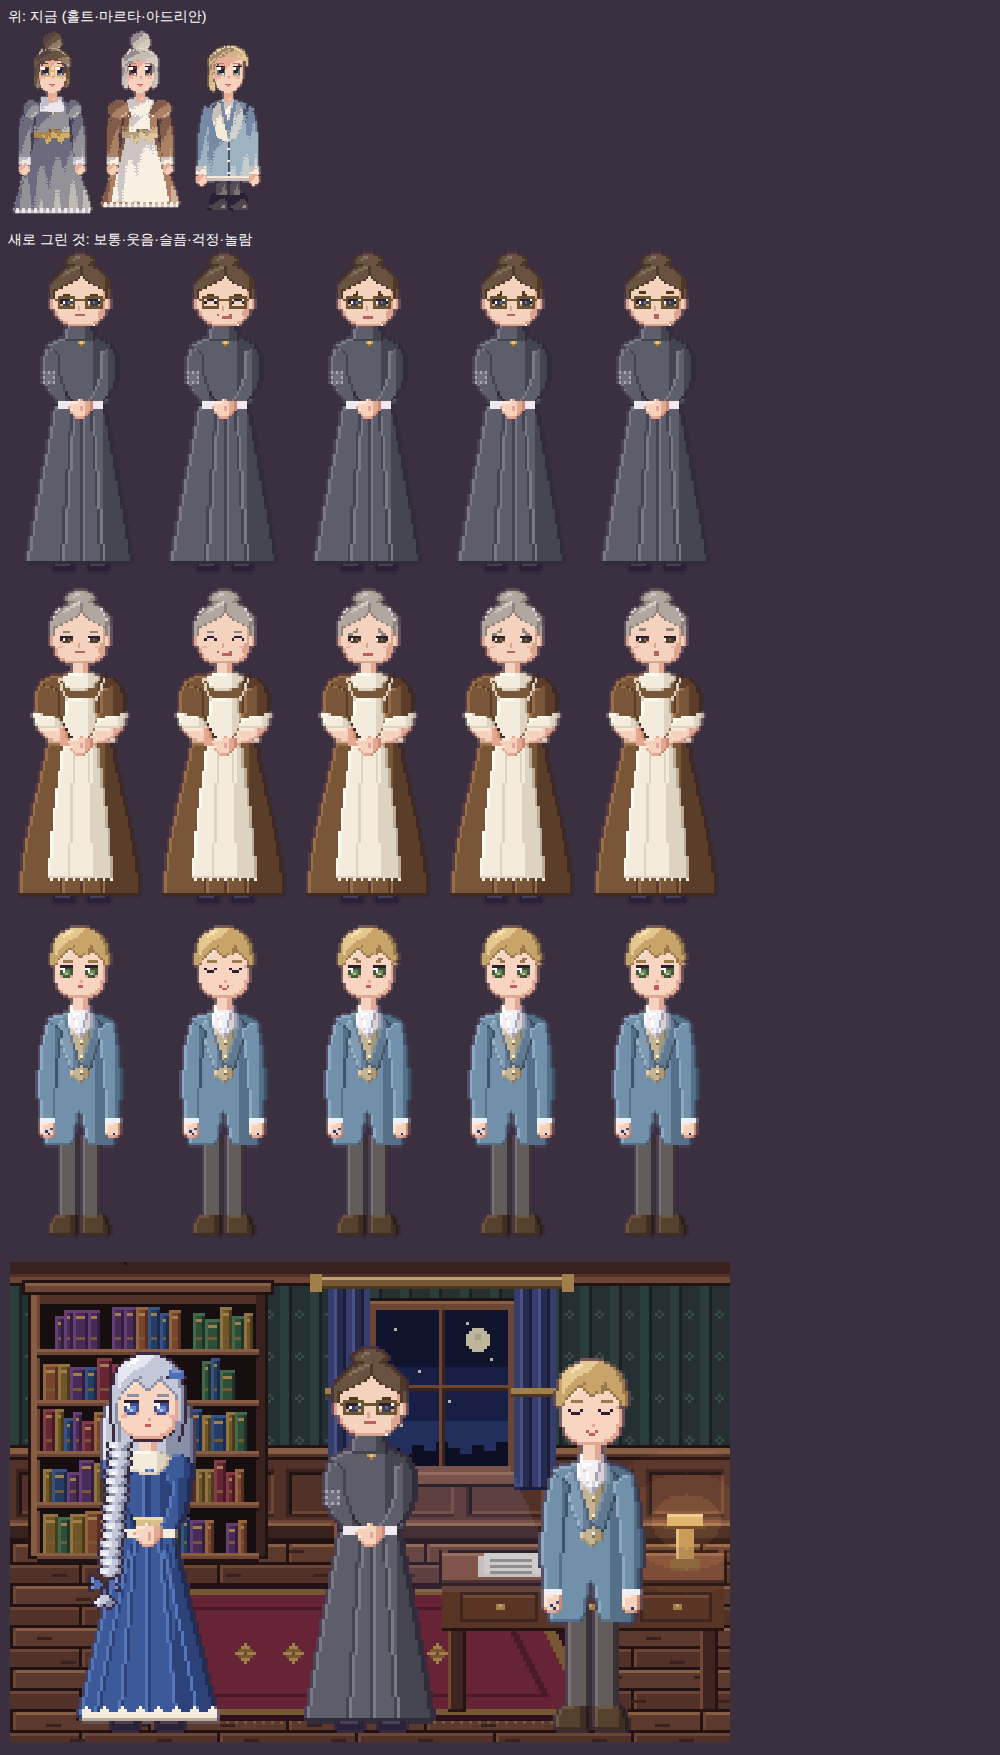
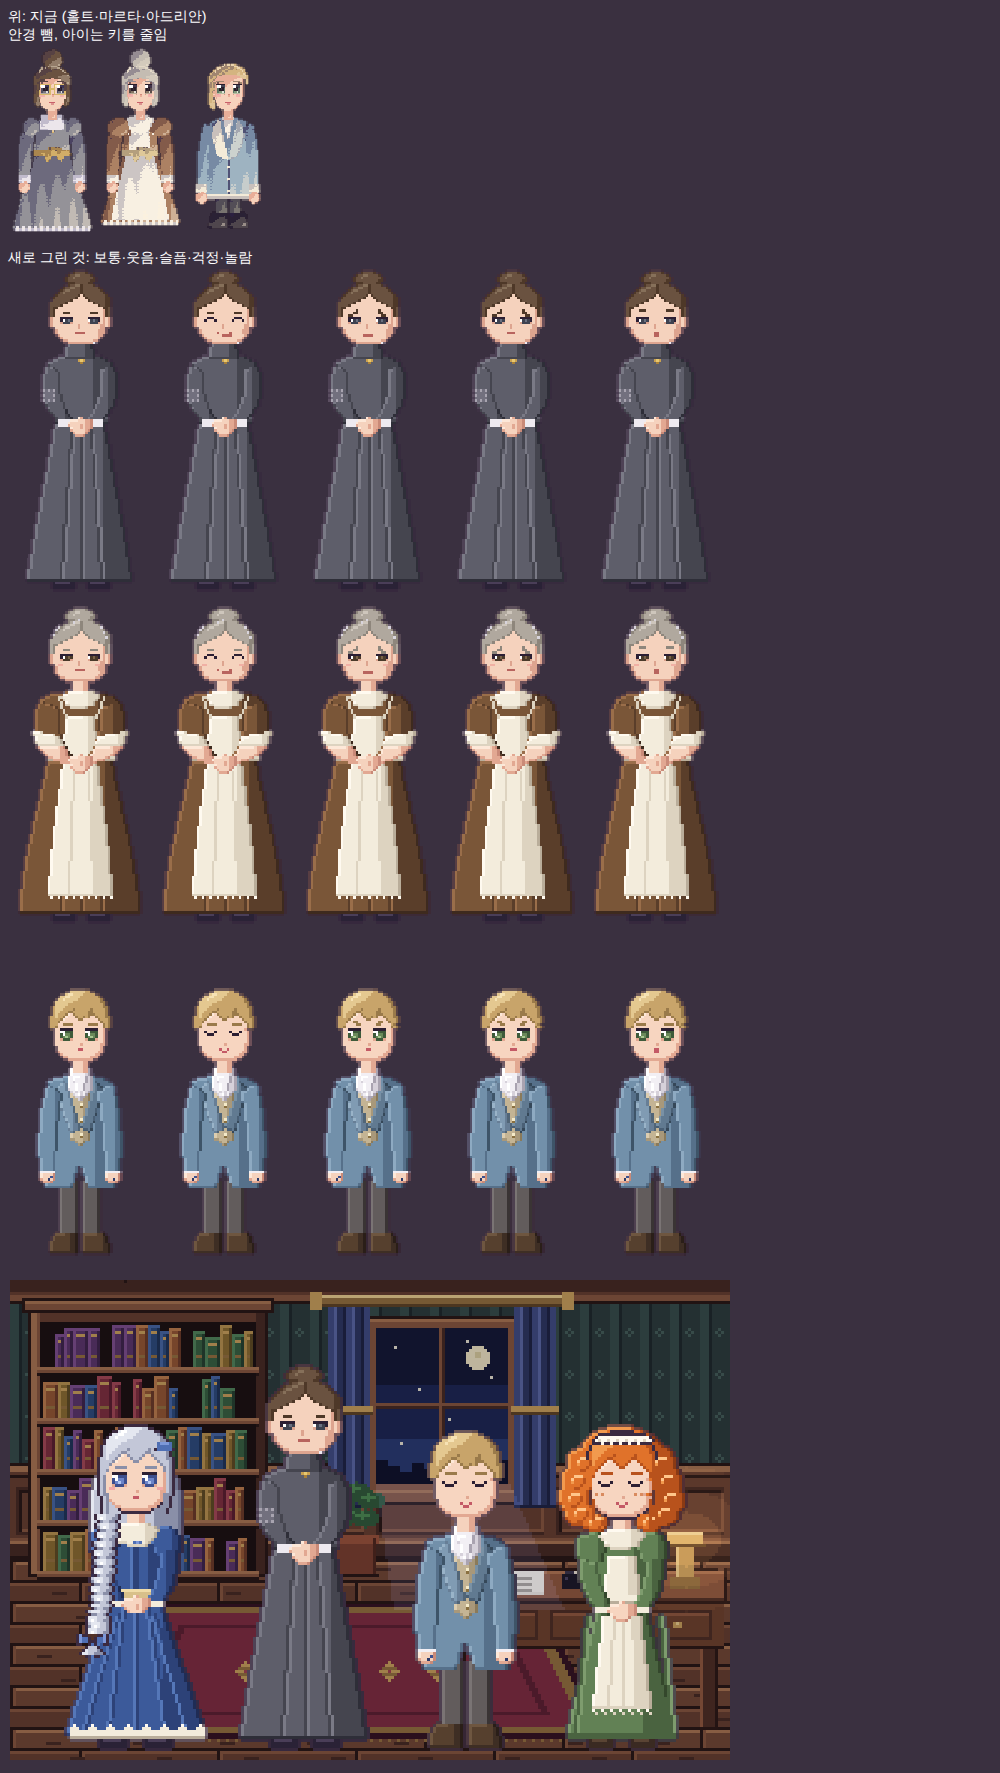
새 그림체: 홀트·마르타·아드리안, 홀트 안경 제거, 아이 키 줄이기 (wip)
Claude-Session: https://claude.ai/code/session_01NzQUDDCoPt1Z4eH1vzoWiG

diff --git a/wip/batch1_view.js b/wip/batch1_view.js
@@ -9,9 +9,9 @@ const fs=require('fs'); const SP=__dirname;
   const old=await p.evaluate(ids=>ids.map(id=>sprite(id,'neutral').c.toDataURL()),ids);
   for(const f of ['cel.js','study2.js','ade2.js','more2.js','more3.js']) await p.addScriptTag({content:fs.readFileSync(SP+'/'+f,'utf8')});
   const E=['neutral','smile','sad','worry','surprise'];
-  const rows=await p.evaluate(E=>[E.map(e=>femSprite('holt',e)),E.map(e=>femSprite('marta',e)),E.map(e=>adrianSprite(e))].map(r=>r.map(s=>s.c.toDataURL())),E);
-  const stage=await p.evaluate(()=>{ const o=PX(240,160); study2(o,seasonPal('겨울')); [[adeSprite('neutral'),18],[femSprite('holt','neutral'),92],[adrianSprite('smile'),166]].forEach(a=>o.x.drawImage(a[0].c,a[1],156-a[0].feet)); return o.c.toDataURL(); });
-  await p.evaluate((old,rows,stage)=>{ document.body.innerHTML='<div style="background:#3a3040;padding:8px;color:#fff;font:14px sans-serif"><div>위: 지금 (홀트·마르타·아드리안)</div><div id=a></div><div>새로 그린 것: 보통·웃음·슬픔·걱정·놀람</div><div id=b0></div><div id=b1></div><div id=b2></div><div id=c></div></div>';
+  const rows=await p.evaluate(E=>[E.map(e=>femSprite('holt',e)),E.map(e=>femSprite('marta',e)),E.map(e=>kid('adrian',adrianSprite(e)))].map(r=>r.map(s=>s.c.toDataURL())),E);
+  const stage=await p.evaluate(()=>{ const o=PX(240,160); study2(o,seasonPal('겨울')); [[kid('adeline',adeSprite('neutral')),14],[femSprite('holt','neutral'),70],[kid('adrian',adrianSprite('smile')),124],[kid('tangie',tangieSprite('smile')),176]].forEach(a=>o.x.drawImage(a[0].c,a[1],156-a[0].feet)); return o.c.toDataURL(); });
+  await p.evaluate((old,rows,stage)=>{ document.body.innerHTML='<div style="background:#3a3040;padding:8px;color:#fff;font:14px sans-serif"><div>위: 지금 (홀트·마르타·아드리안)</div><div>안경 뺌, 아이는 키를 줄임</div><div id=a></div><div>새로 그린 것: 보통·웃음·슬픔·걱정·놀람</div><div id=b0></div><div id=b1></div><div id=b2></div><div id=c></div></div>';
     const put=(el,arr,w,h)=>arr.forEach(u=>{ const i=new Image(); i.src=u; i.style.cssText='width:'+w+'px;height:'+h+'px;image-rendering:pixelated;margin:2px'; document.getElementById(el).appendChild(i); });
     put('a',old,84,198); rows.forEach((r,k)=>put('b'+k,r,140,330)); put('c',[stage],720,480); },old,rows,stage);
   await p.screenshot({path:process.argv[2],fullPage:true}); console.log('errors',errs.join('|')||'none'); await b.close(); })();

diff --git a/wip/more3.js b/wip/more3.js
@@ -64,7 +64,7 @@ function femBody(o,cfg){
   else celPath(o,'M20 36 C23 33 33 33 36 36 L33 40 C30 41 26 41 23 40 Z',T);
 }
 const FEM_FIG={
- holt:{hs:'bun',hair:['#3a2a20','#4e3828','#6a5240','#86705a'],eye:['#3e4250','#6a7080'],glasses:'#6a5432',
+ holt:{hs:'bun',hair:['#3a2a20','#4e3828','#6a5240','#86705a'],eye:['#3e4250','#6a7080'],
    dress:['#2e2e38','#45454f','#5e5e6a','#7a7a86','#9898a4'],trim:['#a9a3b0','#d6d1da','#eeeaf0','#ffffff'],belt:['#2e2e38','#45454f','#5e5e6a'],highneck:true,patch:'#72707e',feet:128},
  marta:{hs:'bun',hair:['#6e665e','#8e867c','#b0a89e','#cec6bc'],eye:['#4a3a2a','#7a6248'],gray:true,round:true,blush:true,
    dress:['#3e2a1e','#5a3e2a','#7a5638','#9a6e4a','#b88c64'],trim:['#b9ad9a','#ddd3c0','#f3ecdc','#fffaf0'],belt:['#b9ad9a','#ddd3c0','#f3ecdc'],apron:true,rolled:true,wide:3,feet:126}
@@ -104,3 +104,12 @@ function adrianSprite(expr){
   outlinePass(o);
   return {c:o.c,feet:fy};
 }
+
+// ── 아이 키 줄이기: 머리 크기는 그대로, [y0,y1) 사이(다리·치마)에서 n줄을 고르게 빼고 윗부분을 내린다. 발 위치(feet)는 그대로.
+function shrinkKid(s,y0,y1,n){
+  const W=s.c.width,H=s.c.height, o=PX(W,H); const drop=new Set(); for(let k=0;k<n;k++) drop.add(Math.floor(y0+(k+.5)*(y1-y0)/n));
+  let ty=H-1; for(let y=H-1;y>=0;y--){ if(drop.has(y)) continue; o.x.drawImage(s.c,0,y,W,1,0,ty,W,1); ty--; }
+  return {c:o.c,feet:s.feet};
+}
+const KID={adeline:[62,120,18],adrian:[64,116,18],tangie:[62,110,10]};
+function kid(id,s){ const k=KID[id]; return k?shrinkKid(s,k[0],k[1],k[2]):s; }

diff --git a/wip/README.md b/wip/README.md
@@ -11,3 +11,7 @@
 - 미리보기 결과: `preview/study-redraw-compare.png`, `preview/adeline-redraw.png`, `preview/tangie-edric-marot-redraw.png`, `preview/holt-marta-adrian-redraw.png`
 
 남은 일: 나머지 인물 9명(kylen, julian, lionel, sebastian, hadel, rosalie, serena, gregor, count), 배경 9곳(+복도, 집사실)을 같은 방식으로 → `src/art_sprites.js`, `src/art_bg.js` 에 정식 반영(`sprite(id,expr)` / `bgCanvas` 인터페이스 유지) → 테스트·캡처.
+
+## 사용자 결정 (2026-10-02)
+- 홀트 선생님은 **안경 없음**.
+- 아이는 어른보다 **작게**. 비율 축소 대신 머리는 그대로 두고 다리·치마 줄을 빼서 키를 낮춘다(`shrinkKid`, `KID` 표: 아델라인·아드리안 18줄, 탠지(13세) 10줄). 정식 반영 때 `sprite()` 안에서 적용.
